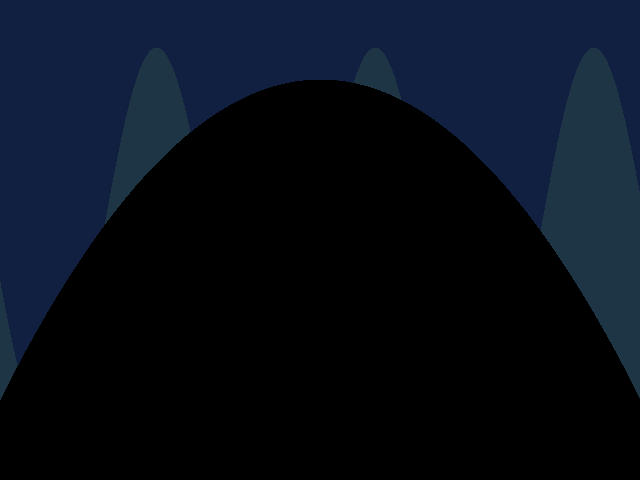
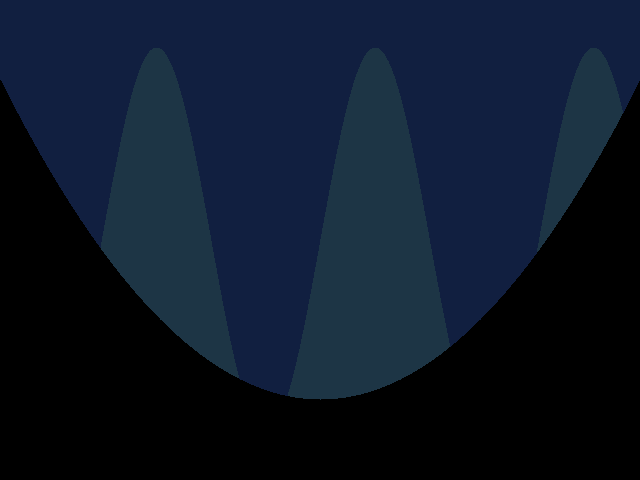
Changed minus expression to correctly reflect the operation

diff --git a/expr.cpp b/expr.cpp
@@ -31,7 +31,7 @@ double SubExpr::eval(double x) const {
   if (numChildren() != 2) {
     throw PlotException("Subtract expression requires exactly two operands");
   }
-  return getChild(1)->eval(x) - getChild(0)->eval(x);
+  return getChild(0)->eval(x) - getChild(1)->eval(x);
 }
 
 double MultExpr::eval(double x) const {
